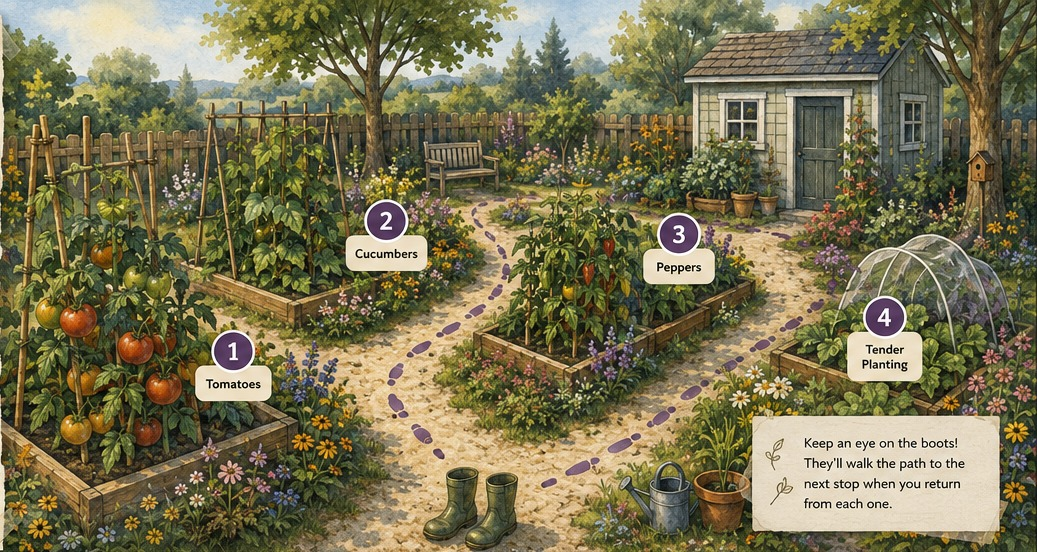
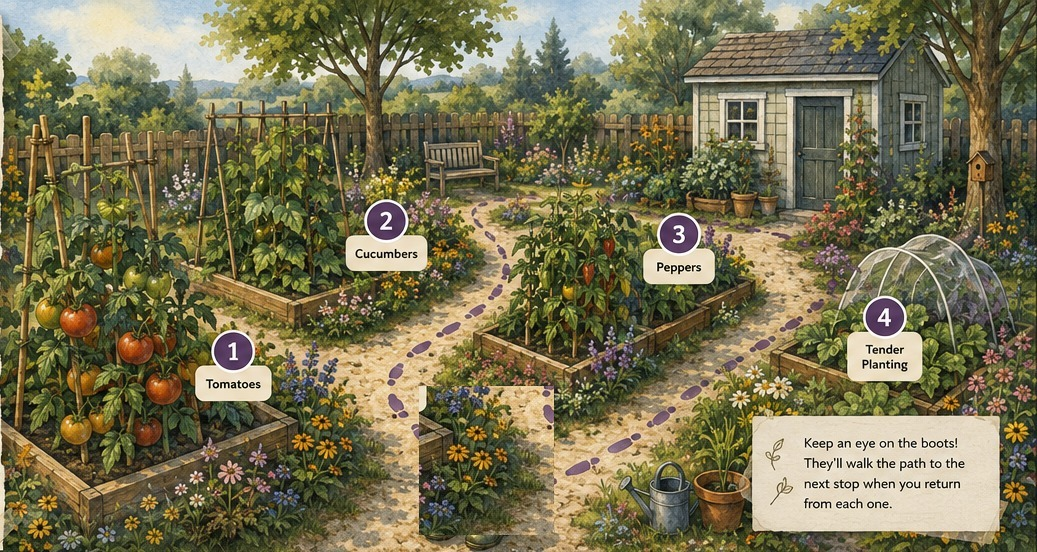
Add files via upload

Changed region(s): [[0.4012, 0.6775, 0.5554, 0.9855]]

diff --git a/styles.css b/styles.css
@@ -148,3 +148,51 @@
 .h2{left:31.5% !important;top:29% !important;width:14% !important;height:20% !important}
 .h3{left:59.5% !important;top:31% !important;width:14% !important;height:20% !important}
 .h4{left:78.5% !important;top:48% !important;width:15% !important;height:22% !important}
+
+/* v11: single animated garden-step marker, no baked-in boots */
+.garden-steps{
+  position:absolute !important;
+  z-index:30 !important;
+  width:54px !important;
+  height:48px !important;
+  transition:left 1.25s ease, top 1.25s ease !important;
+  pointer-events:none !important;
+  filter:drop-shadow(0 2px 2px rgba(0,0,0,.25));
+}
+.garden-steps .foot{
+  position:absolute;
+  width:18px;
+  height:31px;
+  background:#6e7f4a;
+  border:3px solid #435438;
+  border-radius:9px 9px 12px 12px;
+}
+.garden-steps .foot:after{
+  content:"";
+  position:absolute;
+  left:-3px;
+  bottom:-7px;
+  width:23px;
+  height:11px;
+  background:#6e7f4a;
+  border:3px solid #435438;
+  border-top:0;
+  border-radius:0 0 13px 8px;
+}
+.garden-steps .left{left:3px;top:1px;transform:rotate(-12deg)}
+.garden-steps .right{right:3px;bottom:0;transform:rotate(12deg)}
+
+/* Position beside, not on top of, each stop label */
+.step1{left:27% !important;top:78% !important}
+.step2{left:48% !important;top:49% !important}
+.step3{left:74% !important;top:53% !important}
+.step4{left:86% !important;top:68% !important}
+
+@media(prefers-reduced-motion:reduce){
+  .garden-steps{transition:none !important}
+}
+
+.h1{left:15% !important;top:57% !important;width:16% !important;height:23% !important}
+.h2{left:31% !important;top:28% !important;width:16% !important;height:22% !important}
+.h3{left:59% !important;top:30% !important;width:16% !important;height:22% !important}
+.h4{left:79% !important;top:48% !important;width:16% !important;height:24% !important}

diff --git a/app.js b/app.js
@@ -60,7 +60,7 @@ document.querySelectorAll(".return").forEach(btn => {
     arrival.textContent = "Heading to the next garden area…";
 
     setTimeout(() => {
-      wellies.className = "wellies pos" + next;
+      wellies.className = "garden-steps step" + next;
     }, 300);
 
     const reduced = window.matchMedia("(prefers-reduced-motion: reduce)").matches;
